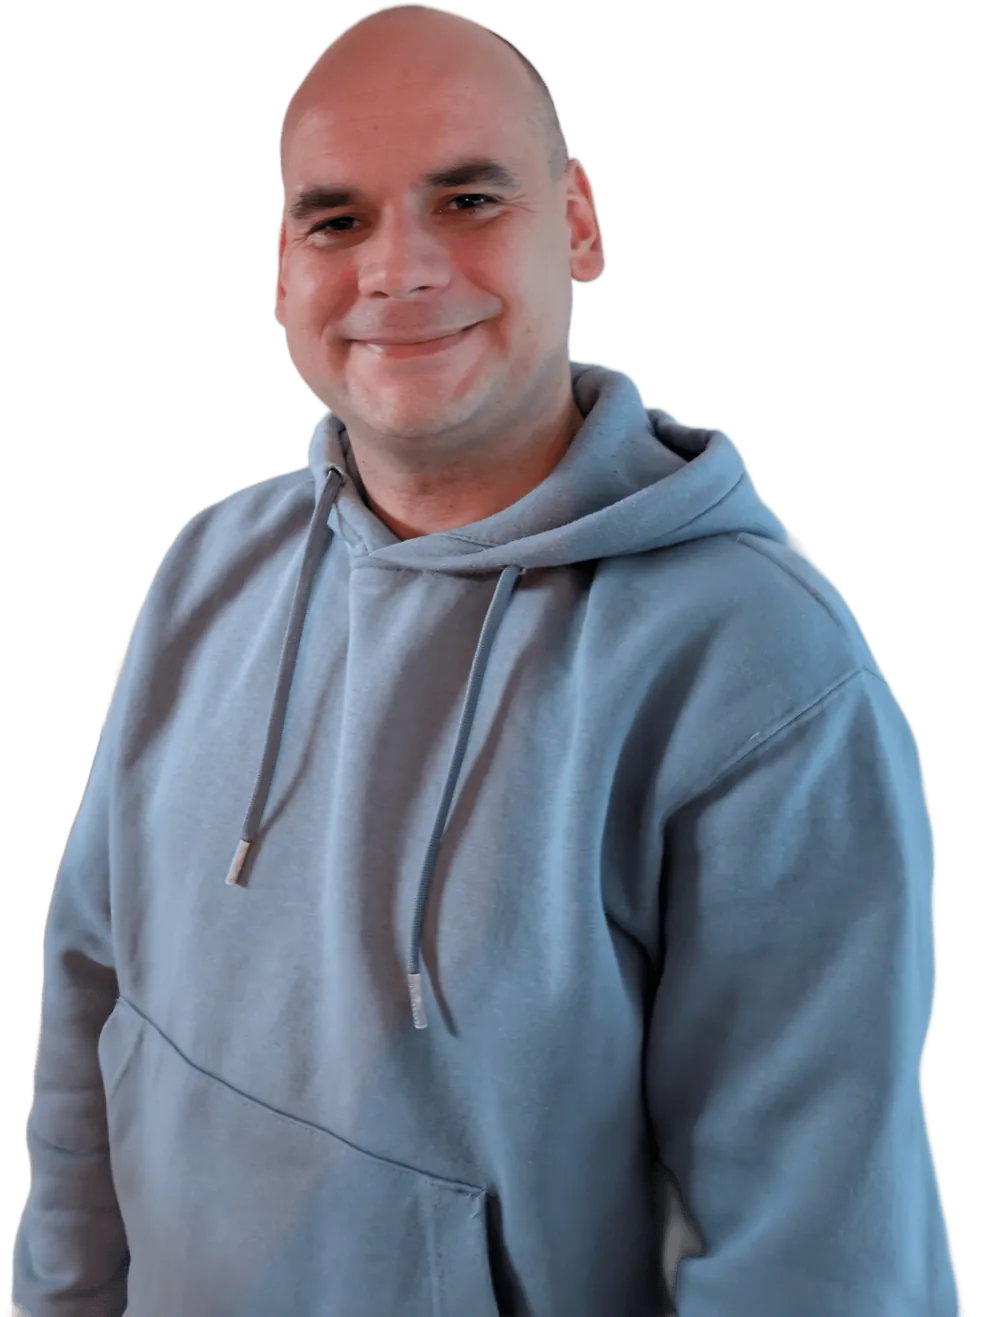
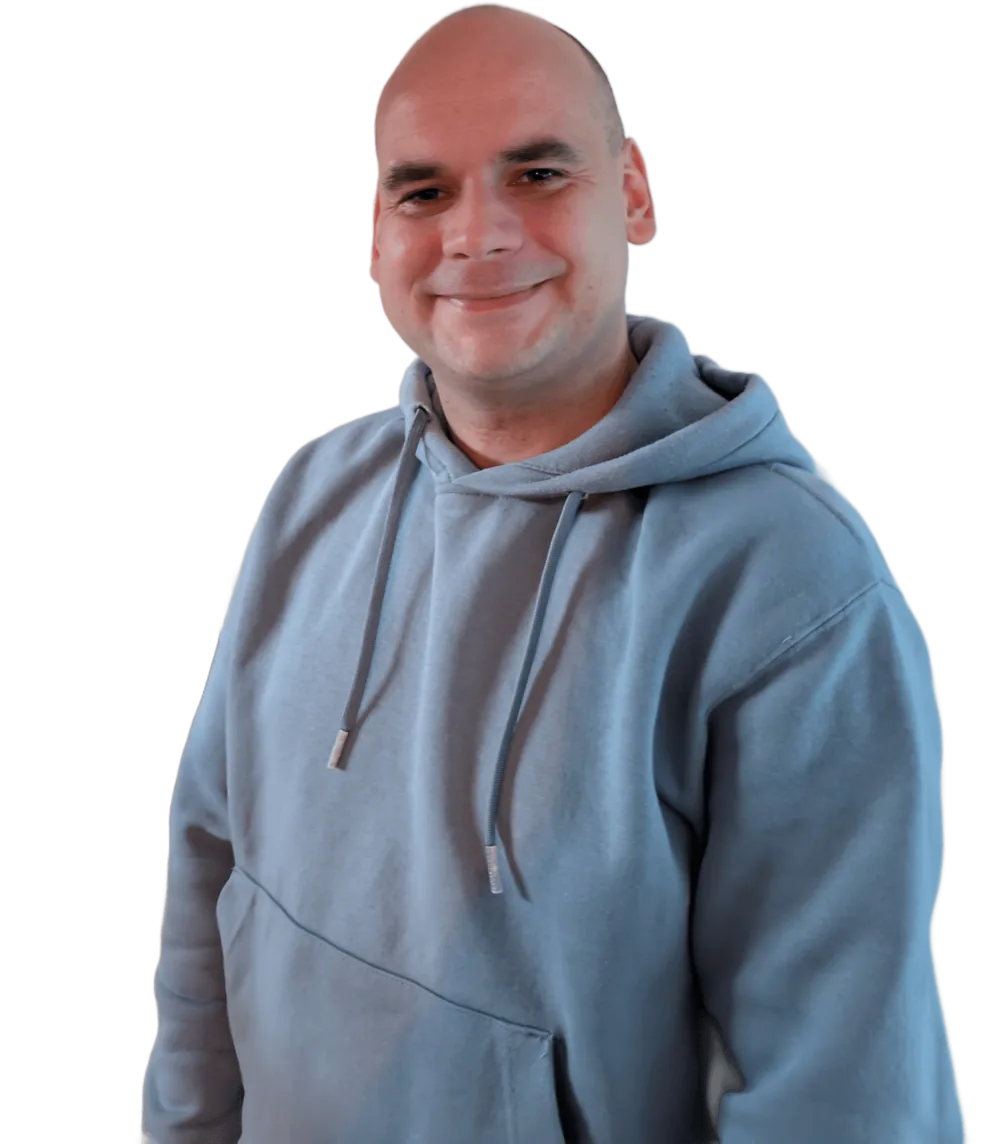
pic transition

diff --git a/sites/robmeijerink/frontend/src/scripts/photo-morph.js b/sites/robmeijerink/frontend/src/scripts/photo-morph.js
@@ -1,0 +1,218 @@
+const VERTEX = `
+attribute vec2 aPos;
+varying vec2 vUv;
+
+void main() {
+    vUv = aPos * 0.5 + 0.5;
+    gl_Position = vec4(aPos, 0.0, 1.0);
+}
+`
+
+const FRAGMENT = `
+#ifdef GL_FRAGMENT_PRECISION_HIGH
+precision highp float;
+#else
+precision mediump float;
+#endif
+
+uniform sampler2D uFrom;
+uniform sampler2D uTo;
+uniform float uProgress;
+uniform float uMaxBlock;
+uniform vec2 uSize;
+varying vec2 vUv;
+
+float hash(vec2 p) {
+    return fract(sin(dot(p, vec2(127.1, 311.7))) * 43758.5453);
+}
+
+void main() {
+    float bump = pow(sin(3.14159265 * uProgress), 1.4);
+    float size = max(1.0, mix(1.0, uMaxBlock, bump));
+    float block = floor(exp2(floor(log2(size) * 2.0 + 0.5) / 2.0) + 0.5);
+
+    vec2 px = vUv * uSize;
+    vec2 cell = floor(px / block);
+    vec2 uv = (cell * block + block * 0.5) / uSize;
+
+    vec2 coarse = floor(px / 14.0);
+    float threshold = hash(coarse) * 0.75 + (1.0 - vUv.y) * 0.25;
+    float amount = clamp((uProgress - threshold * 0.55) / 0.45, 0.0, 1.0);
+    amount = amount * amount * (3.0 - 2.0 * amount);
+
+    gl_FragColor = mix(texture2D(uFrom, uv), texture2D(uTo, uv), amount);
+}
+`
+
+const DURATION = 600
+
+function ease(value) {
+    return value * value * (3 - 2 * value)
+}
+
+function compile(gl, type, source) {
+    const shader = gl.createShader(type)
+
+    gl.shaderSource(shader, source)
+    gl.compileShader(shader)
+
+    return gl.getShaderParameter(shader, gl.COMPILE_STATUS) ? shader : null
+}
+
+function createTexture(gl, image, unit) {
+    const texture = gl.createTexture()
+
+    gl.activeTexture(gl.TEXTURE0 + unit)
+    gl.bindTexture(gl.TEXTURE_2D, texture)
+    gl.pixelStorei(gl.UNPACK_FLIP_Y_WEBGL, true)
+    gl.pixelStorei(gl.UNPACK_PREMULTIPLY_ALPHA_WEBGL, true)
+    gl.texImage2D(gl.TEXTURE_2D, 0, gl.RGBA, gl.RGBA, gl.UNSIGNED_BYTE, image)
+    gl.texParameteri(gl.TEXTURE_2D, gl.TEXTURE_MIN_FILTER, gl.LINEAR)
+    gl.texParameteri(gl.TEXTURE_2D, gl.TEXTURE_MAG_FILTER, gl.LINEAR)
+    gl.texParameteri(gl.TEXTURE_2D, gl.TEXTURE_WRAP_S, gl.CLAMP_TO_EDGE)
+    gl.texParameteri(gl.TEXTURE_2D, gl.TEXTURE_WRAP_T, gl.CLAMP_TO_EDGE)
+
+    return texture
+}
+
+export async function initPhotoMorph() {
+    const root = document.querySelector('.hero-photo')
+
+    if (!root) return
+    if (window.matchMedia('(prefers-reduced-motion: reduce)').matches) return
+    if (!window.matchMedia('(hover: hover)').matches) return
+
+    const images = root.querySelectorAll('img')
+
+    if (images.length < 2) return
+
+    try {
+        await Promise.all(Array.from(images).map((image) => image.decode()))
+    } catch {
+        return
+    }
+
+    const canvas = document.createElement('canvas')
+    canvas.className = 'hero-photo-canvas'
+    canvas.setAttribute('aria-hidden', 'true')
+
+    const gl = canvas.getContext('webgl', { alpha: true, premultipliedAlpha: true, antialias: false })
+
+    if (!gl) return
+
+    const vertex = compile(gl, gl.VERTEX_SHADER, VERTEX)
+    const fragment = compile(gl, gl.FRAGMENT_SHADER, FRAGMENT)
+
+    if (!vertex || !fragment) return
+
+    const program = gl.createProgram()
+
+    gl.attachShader(program, vertex)
+    gl.attachShader(program, fragment)
+    gl.linkProgram(program)
+
+    if (!gl.getProgramParameter(program, gl.LINK_STATUS)) return
+
+    gl.useProgram(program)
+
+    const buffer = gl.createBuffer()
+
+    gl.bindBuffer(gl.ARRAY_BUFFER, buffer)
+    gl.bufferData(gl.ARRAY_BUFFER, new Float32Array([-1, -1, 1, -1, -1, 1, 1, 1]), gl.STATIC_DRAW)
+
+    const position = gl.getAttribLocation(program, 'aPos')
+
+    gl.enableVertexAttribArray(position)
+    gl.vertexAttribPointer(position, 2, gl.FLOAT, false, 0, 0)
+
+    createTexture(gl, images[0], 0)
+    createTexture(gl, images[1], 1)
+
+    gl.uniform1i(gl.getUniformLocation(program, 'uFrom'), 0)
+    gl.uniform1i(gl.getUniformLocation(program, 'uTo'), 1)
+
+    const progressUniform = gl.getUniformLocation(program, 'uProgress')
+    const blockUniform = gl.getUniformLocation(program, 'uMaxBlock')
+    const sizeUniform = gl.getUniformLocation(program, 'uSize')
+
+    gl.clearColor(0, 0, 0, 0)
+
+    let progress = 0
+    let target = 0
+    let last = 0
+    let frame = null
+
+    function resize() {
+        const rect = root.getBoundingClientRect()
+        const ratio = Math.min(window.devicePixelRatio || 1, 2)
+        const width = Math.max(1, Math.round(rect.width * ratio))
+        const height = Math.max(1, Math.round(rect.height * ratio))
+
+        if (canvas.width !== width || canvas.height !== height) {
+            canvas.width = width
+            canvas.height = height
+            gl.viewport(0, 0, width, height)
+        }
+    }
+
+    function render() {
+        gl.uniform1f(progressUniform, ease(progress))
+        gl.uniform1f(blockUniform, canvas.width / 48)
+        gl.uniform2f(sizeUniform, canvas.width, canvas.height)
+        gl.clear(gl.COLOR_BUFFER_BIT)
+        gl.drawArrays(gl.TRIANGLE_STRIP, 0, 4)
+    }
+
+    function tick(now) {
+        const step = last ? (now - last) / DURATION : 0
+
+        last = now
+        progress = target > progress ? Math.min(target, progress + step) : Math.max(target, progress - step)
+        render()
+
+        if (progress !== target) {
+            frame = requestAnimationFrame(tick)
+        } else {
+            frame = null
+            last = 0
+        }
+    }
+
+    function go(value) {
+        target = value
+
+        if (frame === null) {
+            last = 0
+            frame = requestAnimationFrame(tick)
+        }
+    }
+
+    root.append(canvas)
+    resize()
+    render()
+    root.classList.add('is-morph')
+
+    root.addEventListener('pointerenter', (event) => {
+        if (event.pointerType === 'mouse') go(1)
+    })
+
+    root.addEventListener('pointerleave', (event) => {
+        if (event.pointerType === 'mouse') go(0)
+    })
+
+    canvas.addEventListener('webglcontextlost', () => {
+        root.classList.remove('is-morph')
+        canvas.remove()
+    })
+
+    function refresh() {
+        resize()
+        render()
+    }
+
+    window.addEventListener('resize', refresh)
+
+    if ('ResizeObserver' in window) {
+        new ResizeObserver(refresh).observe(root)
+    }
+}

diff --git a/sites/robmeijerink/views/home.html b/sites/robmeijerink/views/home.html
@@ -61,13 +61,23 @@
 
         <div class="relative -mb-12 sm:-mb-16 lg:col-span-5">
             <div class="hero-glow" aria-hidden="true"></div>
-            <img src="/assets/img/rob-staand.webp"
-                 alt="Profielfoto Rob Meijerink - Solvalutions"
-                 title="Laten we samenwerken!"
-                 class="hero-photo mx-auto block w-72 sm:w-96 lg:w-full lg:max-w-[28rem]"
-                 width="1000"
-                 height="1317"
-                 fetchpriority="high" />
+            <div class="hero-photo mx-auto w-80 sm:w-[26rem] lg:ml-auto lg:w-[32rem] lg:max-w-none">
+                <img src="/assets/img/rob-staand.webp"
+                     alt="Profielfoto Rob Meijerink - Solvalutions"
+                     title="Laten we samenwerken!"
+                     class="hero-photo-base block h-auto w-full"
+                     width="1000"
+                     height="1144"
+                     fetchpriority="high" />
+                <img src="/assets/img/rob-staand-2.webp"
+                     alt=""
+                     aria-hidden="true"
+                     class="hero-photo-alt"
+                     width="1000"
+                     height="1144"
+                     decoding="async"
+                     fetchpriority="low" />
+            </div>
         </div>
     </div>
 </section>
@@ -263,7 +273,7 @@
                     <div class="flex h-12 w-12 shrink-0 items-center justify-center overflow-hidden rounded-lg bg-white transition-transform duration-300 group-hover:scale-105">
                         <picture>
                             <source srcset="/assets/img/solvalutions-logo.webp" type="image/webp">
-                            <img src="/assets/img/solvalutions-logo.png" alt="Solvalutions B2B Tech Partner Logo" class="h-full w-full scale-125 object-contain" width="48" height="48" decoding="async">
+                            <img src="/assets/img/solvalutions-logo.png" alt="Solvalutions B2B Tech Partner Logo" class="h-full w-full scale-125 object-contain" width="48" height="48" loading="lazy" decoding="async">
                         </picture>
                     </div>
                     <div>

diff --git a/sites/robmeijerink/frontend/src/styles/transitions.css b/sites/robmeijerink/frontend/src/styles/transitions.css
@@ -139,8 +139,50 @@
 
 .hero-photo {
     position: relative;
-    height: auto;
     mask-image: linear-gradient(to left, transparent 0, #000 8%);
+}
+
+.hero-photo-base {
+    transition: opacity 0.6s ease;
+}
+
+.hero-photo-canvas {
+    position: absolute;
+    inset: 0;
+    width: 100%;
+    height: 100%;
+}
+
+.hero-photo.is-morph .hero-photo-base,
+.hero-photo.is-morph .hero-photo-alt {
+    opacity: 0 !important;
+    transition: none;
+}
+
+.hero-photo-alt {
+    position: absolute;
+    inset: 0;
+    width: 100%;
+    height: 100%;
+    opacity: 0;
+    transition: opacity 0.6s ease;
+}
+
+@media (hover: hover) {
+    .hero-photo:hover .hero-photo-alt {
+        opacity: 1;
+    }
+
+    .hero-photo:hover .hero-photo-base {
+        opacity: 0;
+    }
+}
+
+@media (prefers-reduced-motion: reduce) {
+    .hero-photo-base,
+    .hero-photo-alt {
+        transition: none;
+    }
 }
 
 .section-glow {

diff --git a/sites/robmeijerink/frontend/src/scripts/app.js b/sites/robmeijerink/frontend/src/scripts/app.js
@@ -8,6 +8,7 @@ import { initTimelineProgress } from './timeline-progress.js'
 import { initTopbar } from './topbar.js'
 import { initScrollWords } from './scroll-words.js'
 import { initStackSections } from './stack-sections.js'
+import { initPhotoMorph } from './photo-morph.js'
 
 document.addEventListener('DOMContentLoaded', () => {
     initTypedCursor('Geen hypes, gewoon betrouwbare en stabiele software.')
@@ -17,4 +18,9 @@ document.addEventListener('DOMContentLoaded', () => {
     initTopbar()
     initScrollWords()
     initStackSections()
+    if ('requestIdleCallback' in window) {
+        requestIdleCallback(initPhotoMorph, { timeout: 2000 })
+    } else {
+        setTimeout(initPhotoMorph, 500)
+    }
 })
